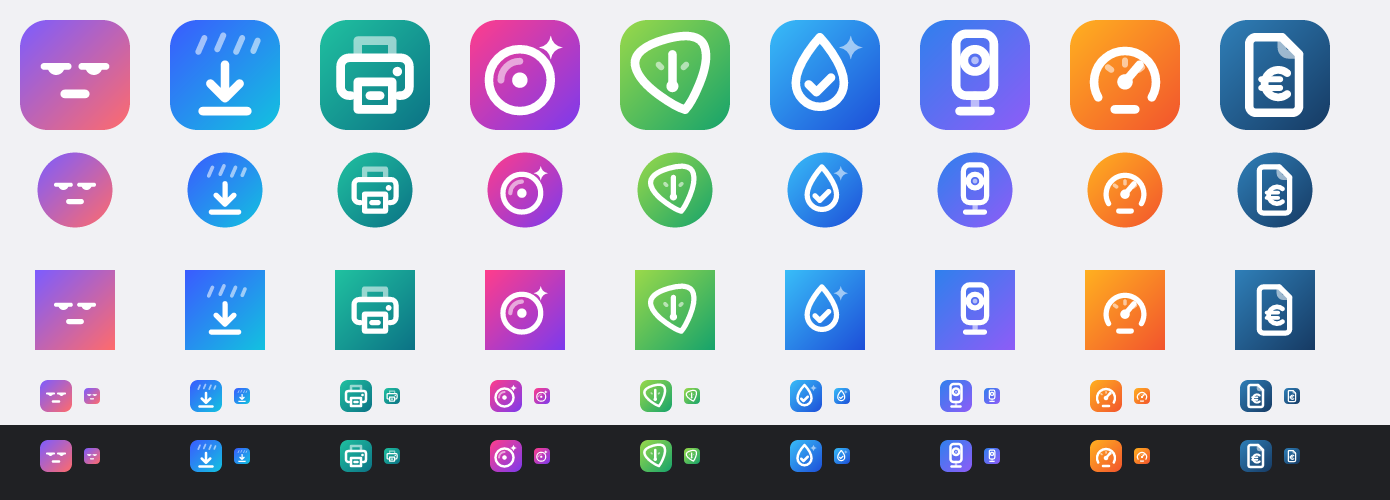
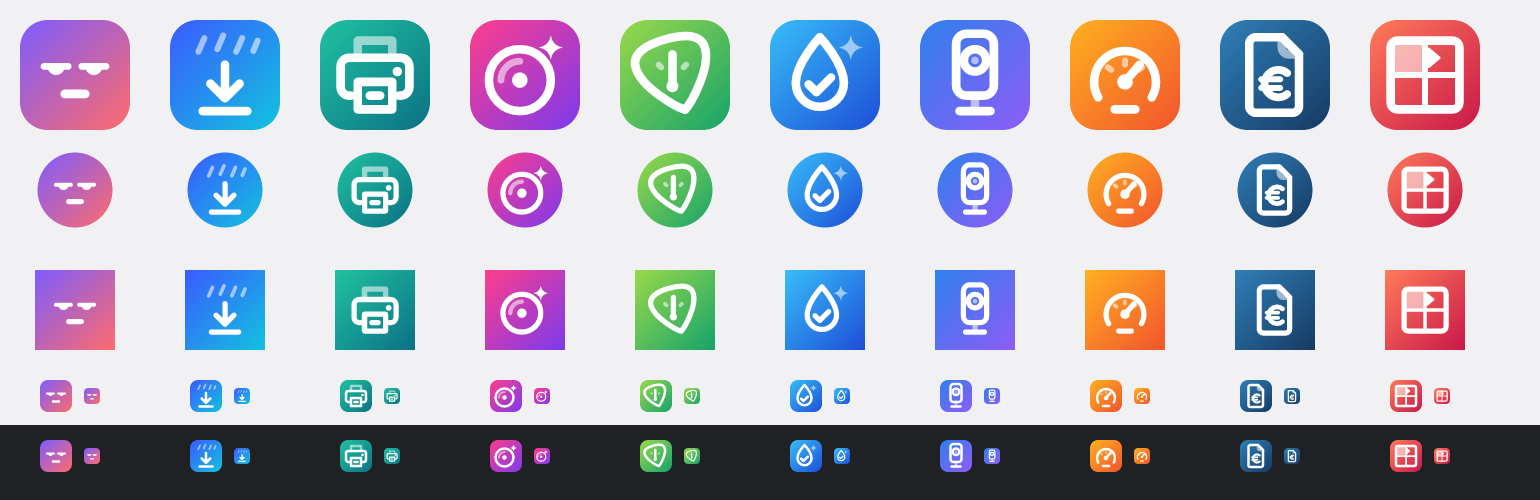
Mots fléchés : carte et icône
Carte en tête de liste (9 résultats), icône brand/icons/mots-fleches.svg
et son entrée dans TARGETS, copie du kit dans kit/sync.sh.

diff --git a/index.html b/index.html
@@ -45,12 +45,22 @@
 
   <main>
     <section class="hero">
-      <p class="kicker">$ ls ~/projets <span class="count">8 résultats</span></p>
+      <p class="kicker">$ ls ~/projets <span class="count">9 résultats</span></p>
       <h1>Bored Dev <span class="grad">Playground</span></h1>
       <p class="lead">Des petits outils libres, gratuits et sans pub.</p>
     </section>
 
     <ul class="grid" id="projets" role="list">
+      <li class="card">
+        <img class="icon" src="assets/projects/mots-fleches.svg" alt="" width="56" height="56">
+        <h2><a href="https://ghermin.github.io/mots-fleches/">Mots fléchés</a></h2>
+        <p>Des mots fléchés en français pensés pour la tablette : grilles à volonté et grille du jour, au doigt, au clavier ou au stylet. Marche hors ligne, tout reste sur l'appareil.</p>
+        <ul class="tags" role="list"><li>PWA</li><li>Tablette</li><li>Jeu</li></ul>
+        <div class="links">
+          <a class="primary" href="https://ghermin.github.io/mots-fleches/">Ouvrir <span aria-hidden="true">→</span></a>
+          <a href="https://github.com/Ghermin/mots-fleches">Code</a>
+        </div>
+      </li>
       <li class="card">
         <img class="icon" src="assets/projects/averse.svg" alt="" width="56" height="56">
         <h2><a href="https://ghermin.github.io/averse/">Averse</a></h2>

diff --git a/brand/build.js b/brand/build.js
@@ -271,6 +271,11 @@ const TARGETS = {
     });
     android(icon, path.join(root, 'android', 'app', 'src', 'main', 'res'));
   },
+  'mots-fleches'(icon) {
+    web(icon, P('mots-croises', 'icons'), {
+      i192: 'icon-192.png', i512: 'icon-512.png', mask512: 'icon-maskable-512.png',
+    });
+  },
 };
 
 // Les icônes des cartes du playground.

diff --git a/CLAUDE.md b/CLAUDE.md
@@ -2,7 +2,7 @@
 
 La vitrine de tous les projets (https://ghermin.github.io/). Les projets sont dans les dossiers voisins (`../autowash`, `../camtel`…) et leurs pages GitHub suivent le kit `kit/playground.css`.
 
-- **Modifier le kit** (`kit/playground.css`) touche toutes les pages des projets : vérifier que ça reste bon sur chacune, puis lancer `sh kit/sync.sh` et commiter dans chaque projet (Blind Test : `npm run pages` en plus ; La Quittance : augmenter `CACHE` dans `sw.js`).
+- **Modifier le kit** (`kit/playground.css`) touche toutes les pages des projets : vérifier que ça reste bon sur chacune, puis lancer `sh kit/sync.sh` et commiter dans chaque projet (Blind Test : `npm run pages` en plus ; La Quittance et Mots fléchés : augmenter `CACHE` dans `sw.js`).
 - **Ajouter un projet** : une carte `<li class="card">` dans `index.html`, son icône dans `brand/icons/` (générée ensuite dans `assets/projects/`), mettre à jour le compteur « N résultats », ajouter sa copie du kit dans `kit/sync.sh`, et donner à sa page le bandeau `pg-strip` et un `CLAUDE.md` comme les autres projets. L'appli elle-même (web, Android, Windows) porte un lien discret « un projet du bored dev playground » vers https://ghermin.github.io/ en pied de page (`pg-sig` du kit pour les pages web).
 - **Icônes** : une par projet dans `brand/icons/`, même grille et même style (voir le README). Après une modification, `node build.js <id>` dans `brand/` régénère favicons, icônes Android et Windows dans le projet, puis commiter dans les deux repos. Un nouveau projet a besoin de son SVG et d'une entrée dans `TARGETS` de `brand/build.js`.
 - Toutes les pages : thème clair / sombre automatique, responsive, 2 polices max (celle du projet + JetBrains Mono).
